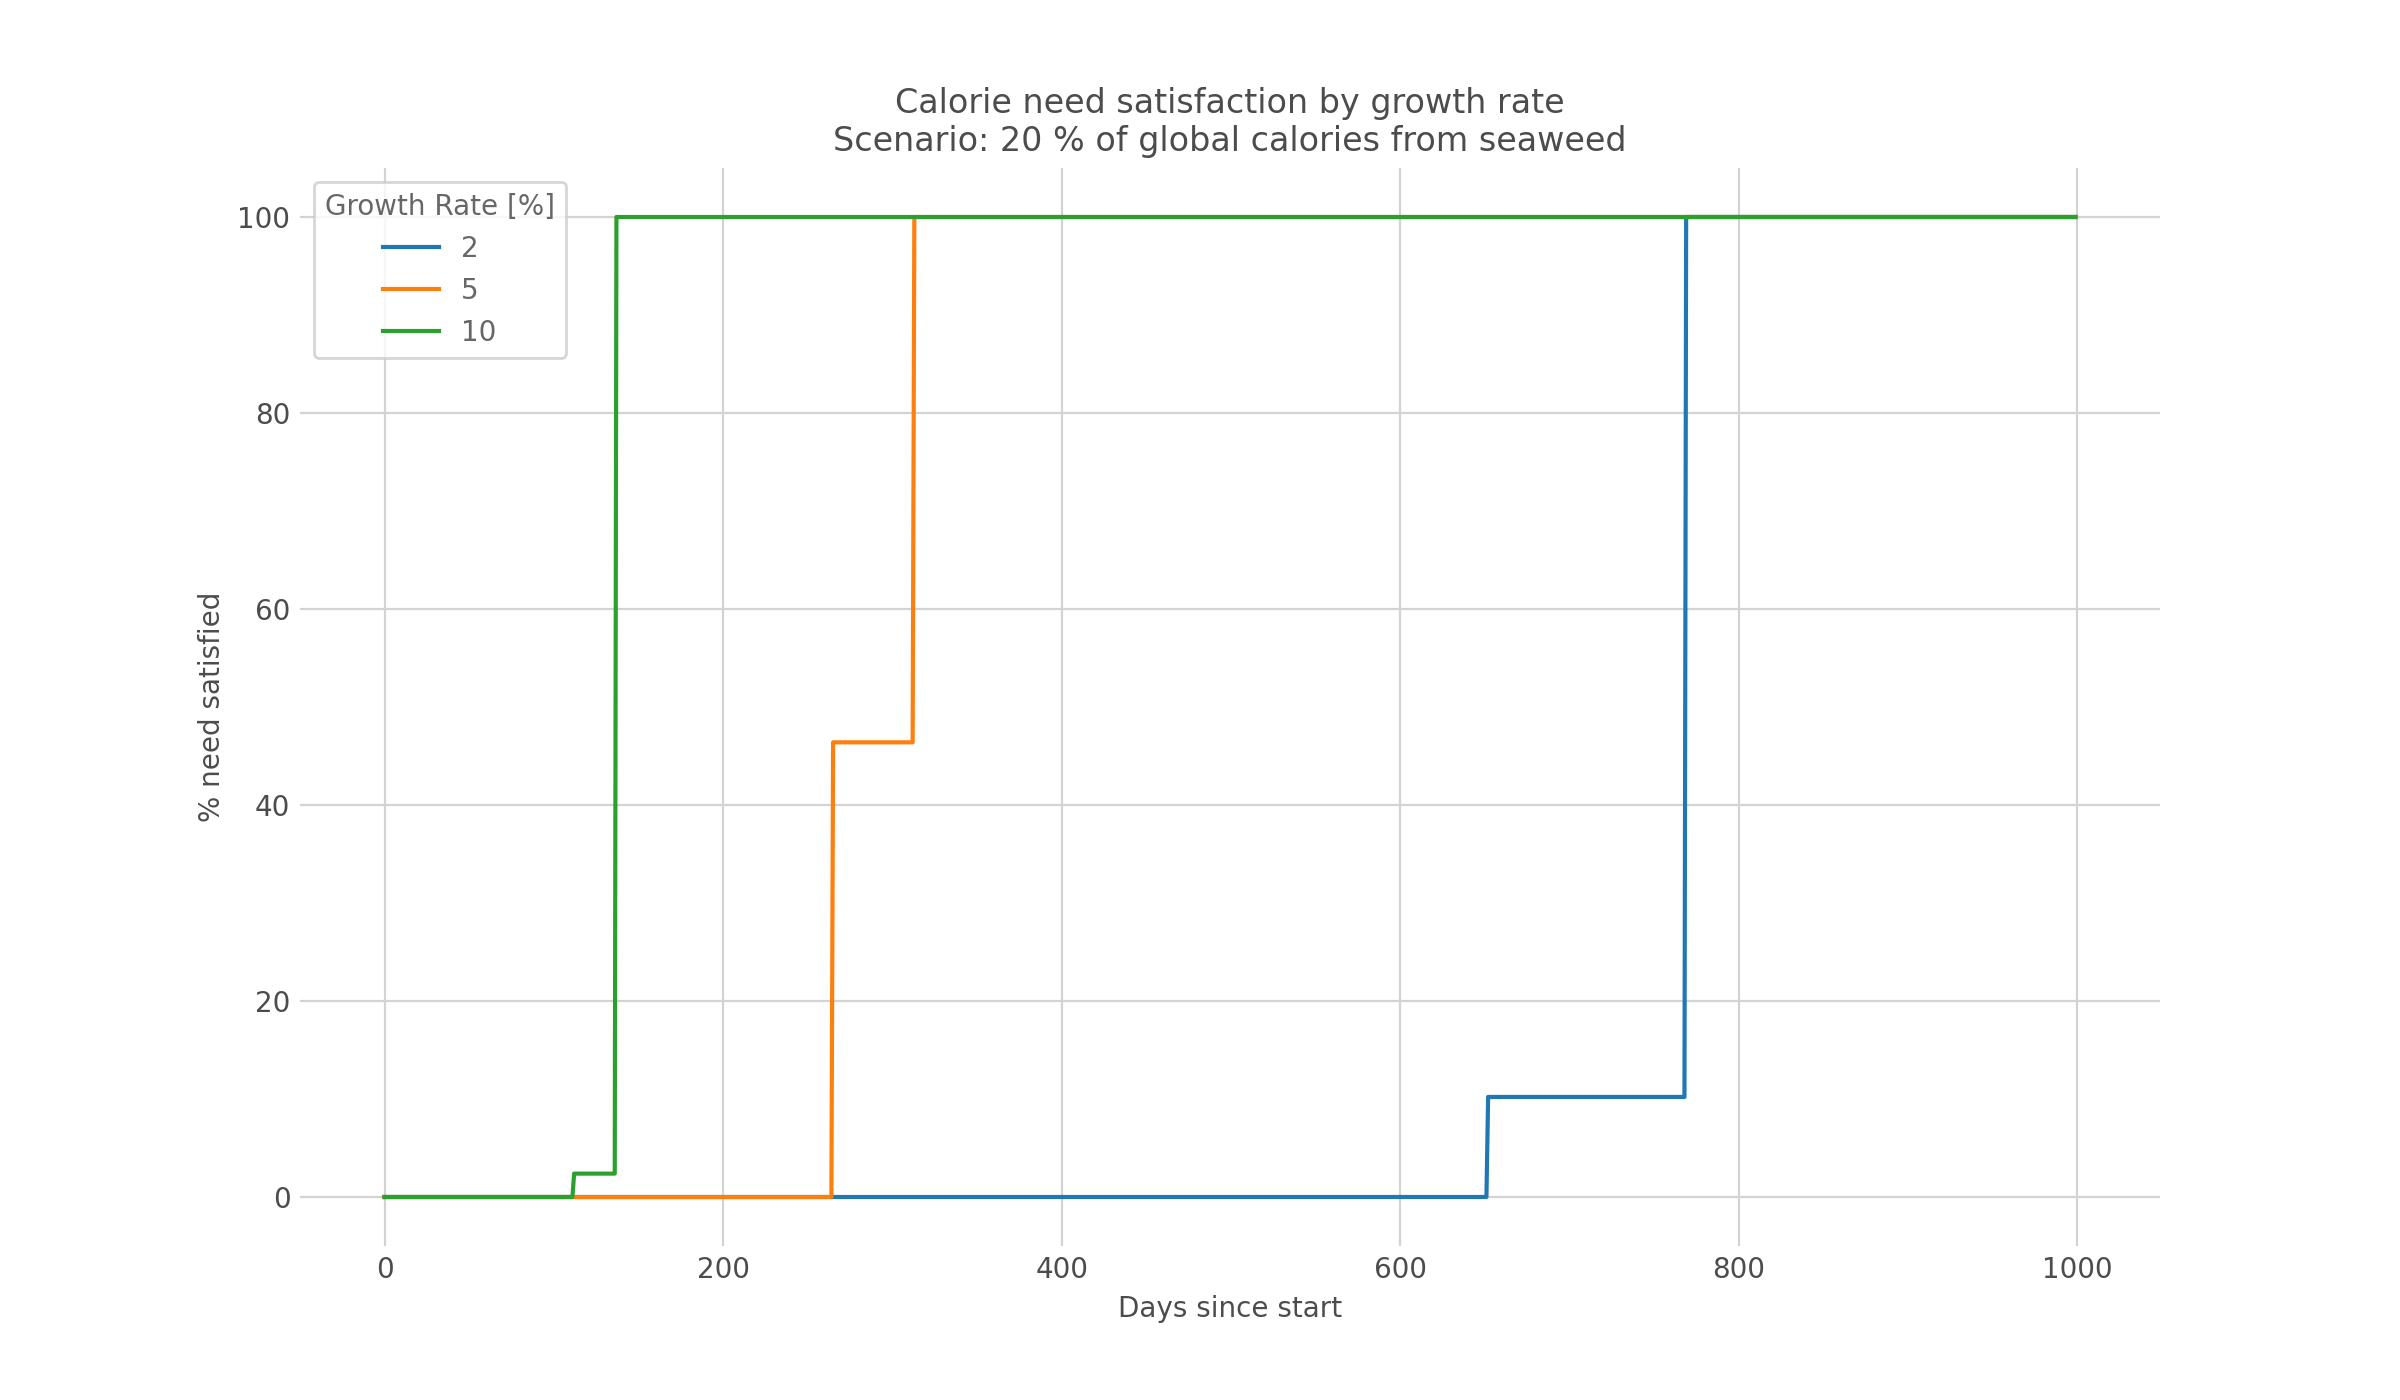
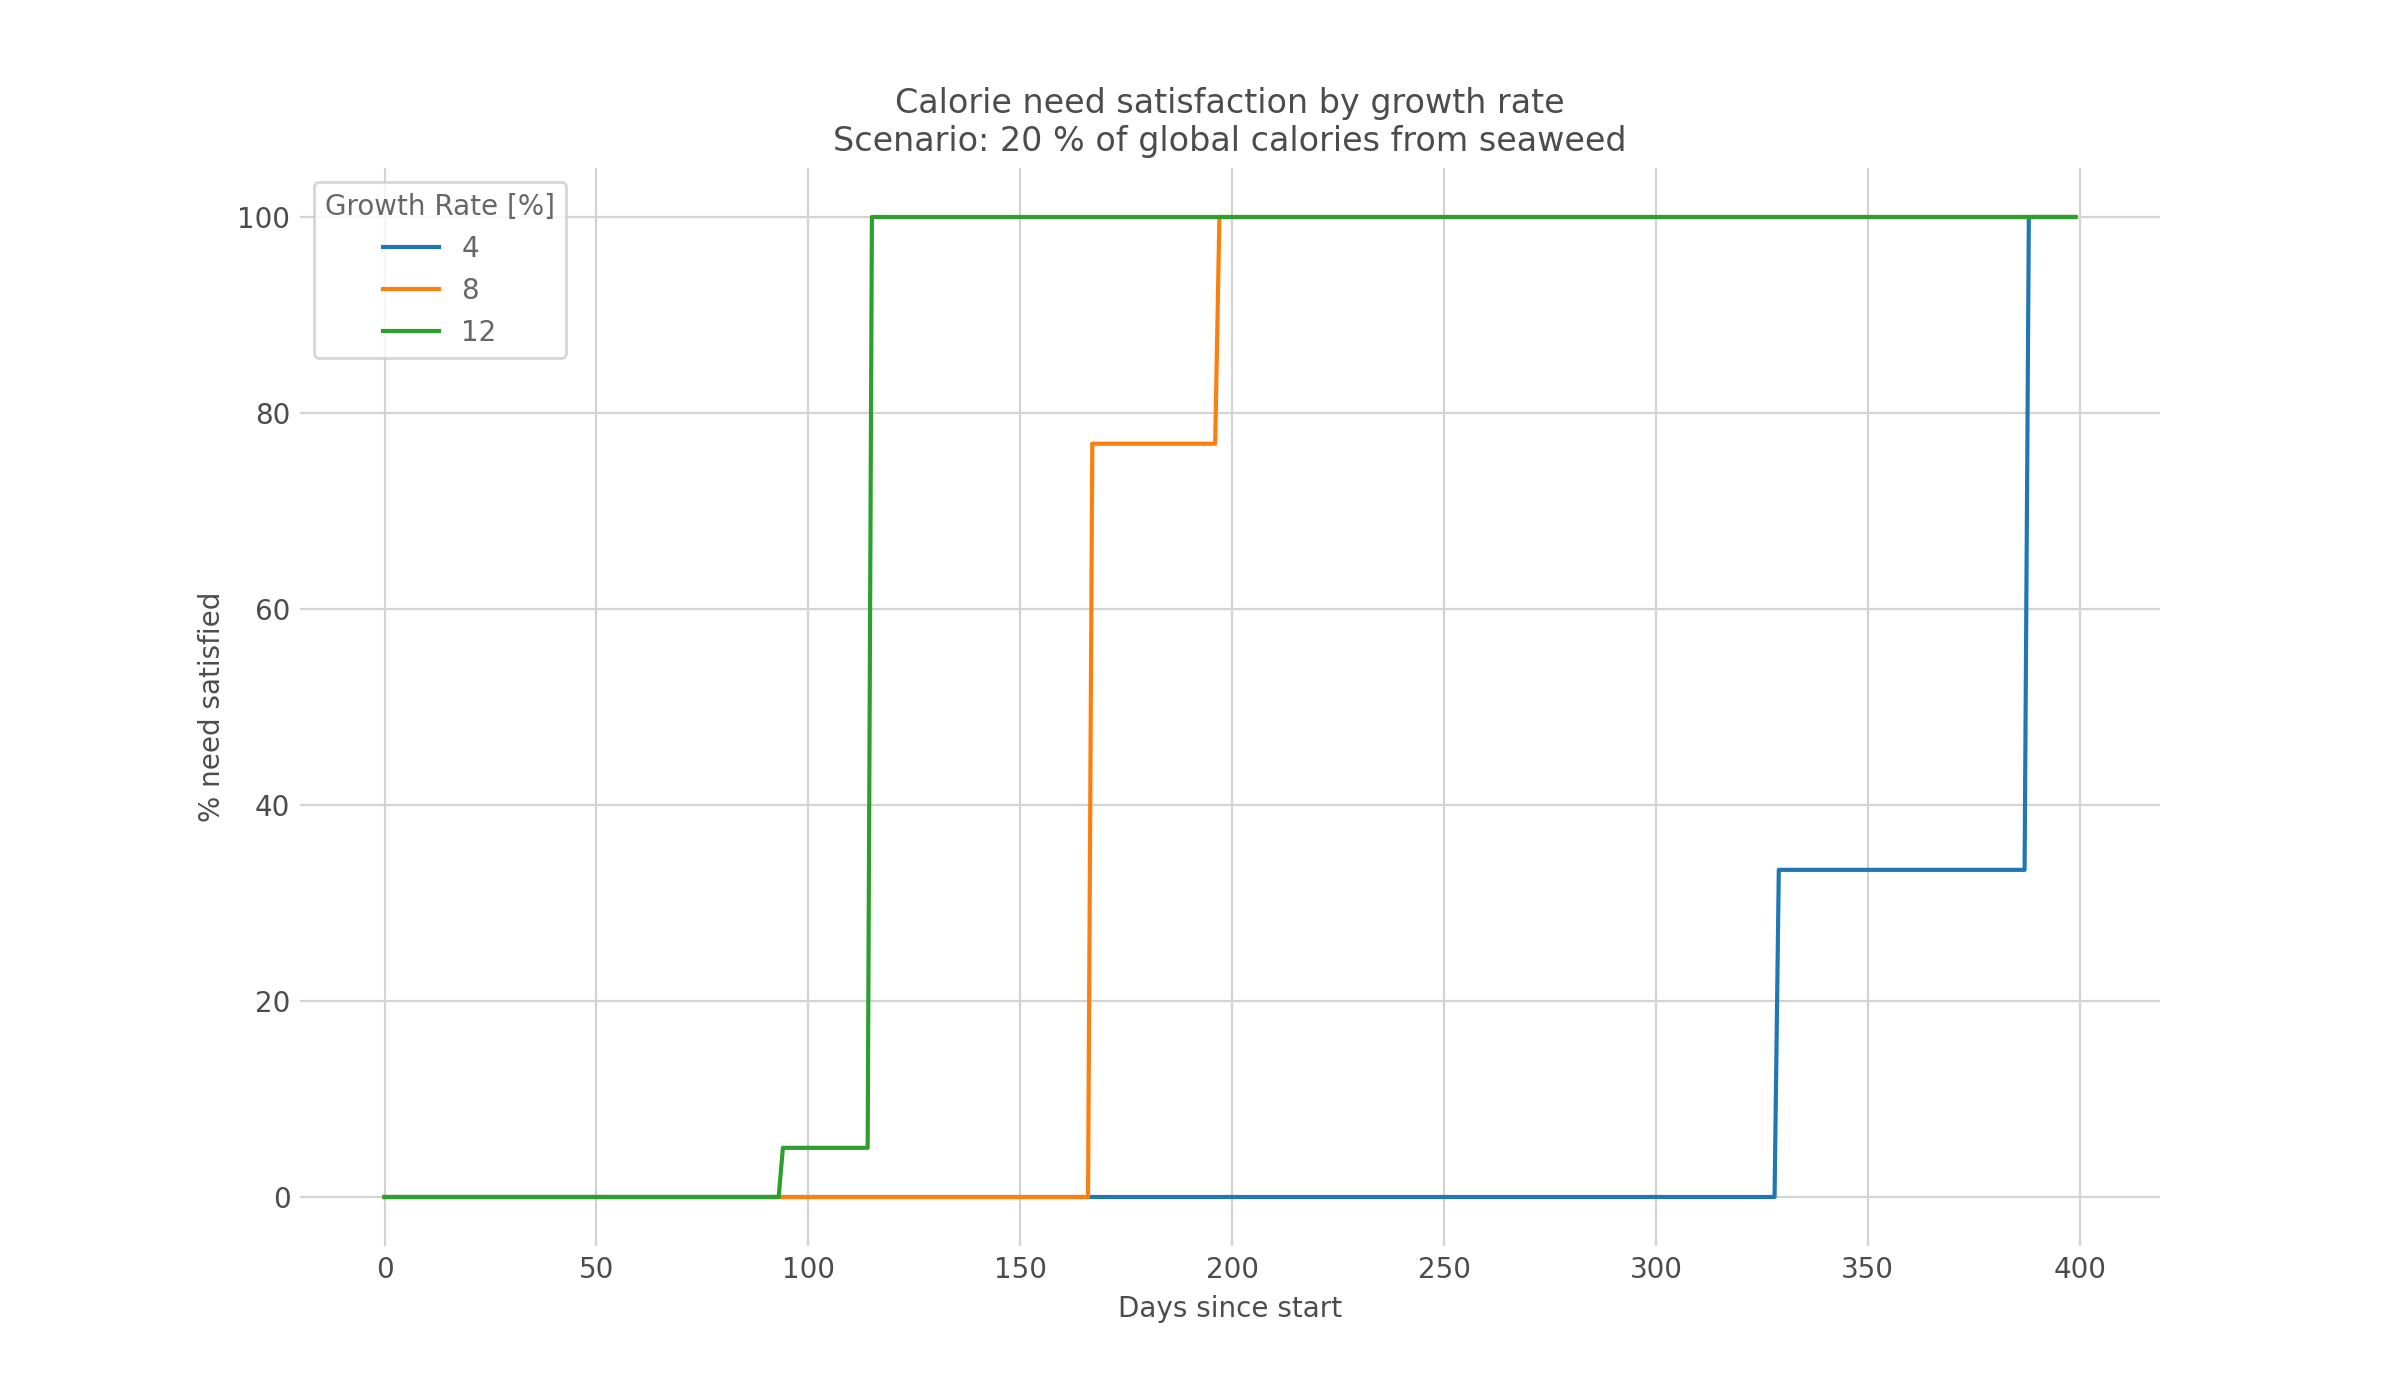
Updated for correct growth rates

diff --git a/src/upscaling_model.py b/src/upscaling_model.py
@@ -351,6 +351,6 @@ def plot_nicer(ax, with_legend=True):
 
 if __name__ == "__main__":
     model = SeaweedUpscalingModel("data/constants.csv")
-    model.run_model_for_set_of_growth_rates(growth_rates=[2,5,10], days_to_run=1000)
+    model.run_model_for_set_of_growth_rates(growth_rates=[4,8,12], days_to_run=400)
     model.plot_satisfaction_results()
     model.plot_area_results()
